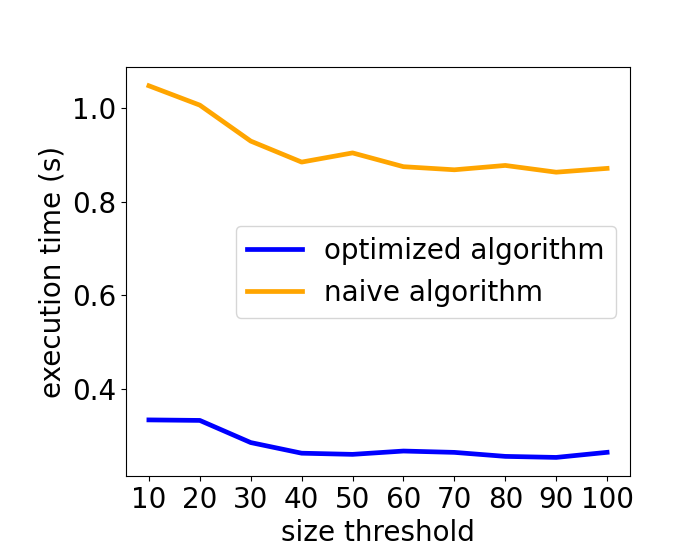
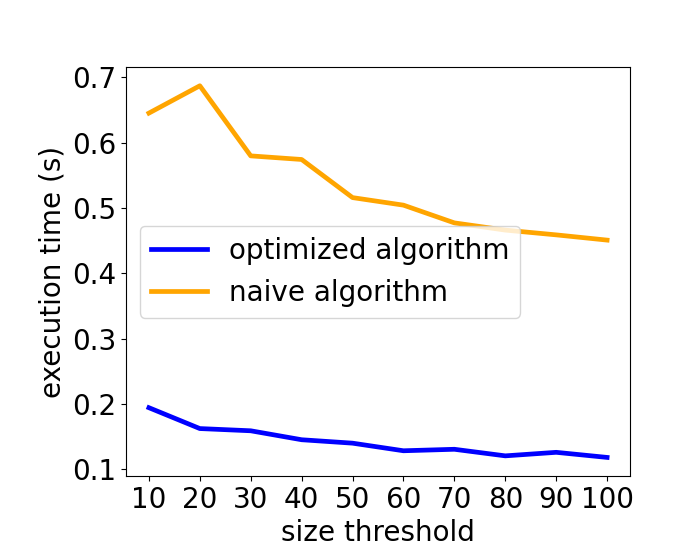
ranking compas data thc

diff --git a/Coding/Experiments/Ranking/CompasData/Thc_1_20210701.py b/Coding/Experiments/Ranking/CompasData/Thc_1_20210701.py
@@ -79,10 +79,10 @@ List_k = list(range(k_min, k_max))
 [0,0,0,0]: num_top_5 = 3, num_top_6 = 4, size = 2024
 """
 def lowerbound(x):
-    return int((x-3)/4)
+    return 10
 
 def upperbound(x):
-    return int(3+(x-k_min+1)/3)
+    return 50
 
 Lowerbounds = [lowerbound(x) for x in List_k]
 Upperbounds = [upperbound(x) for x in List_k]
